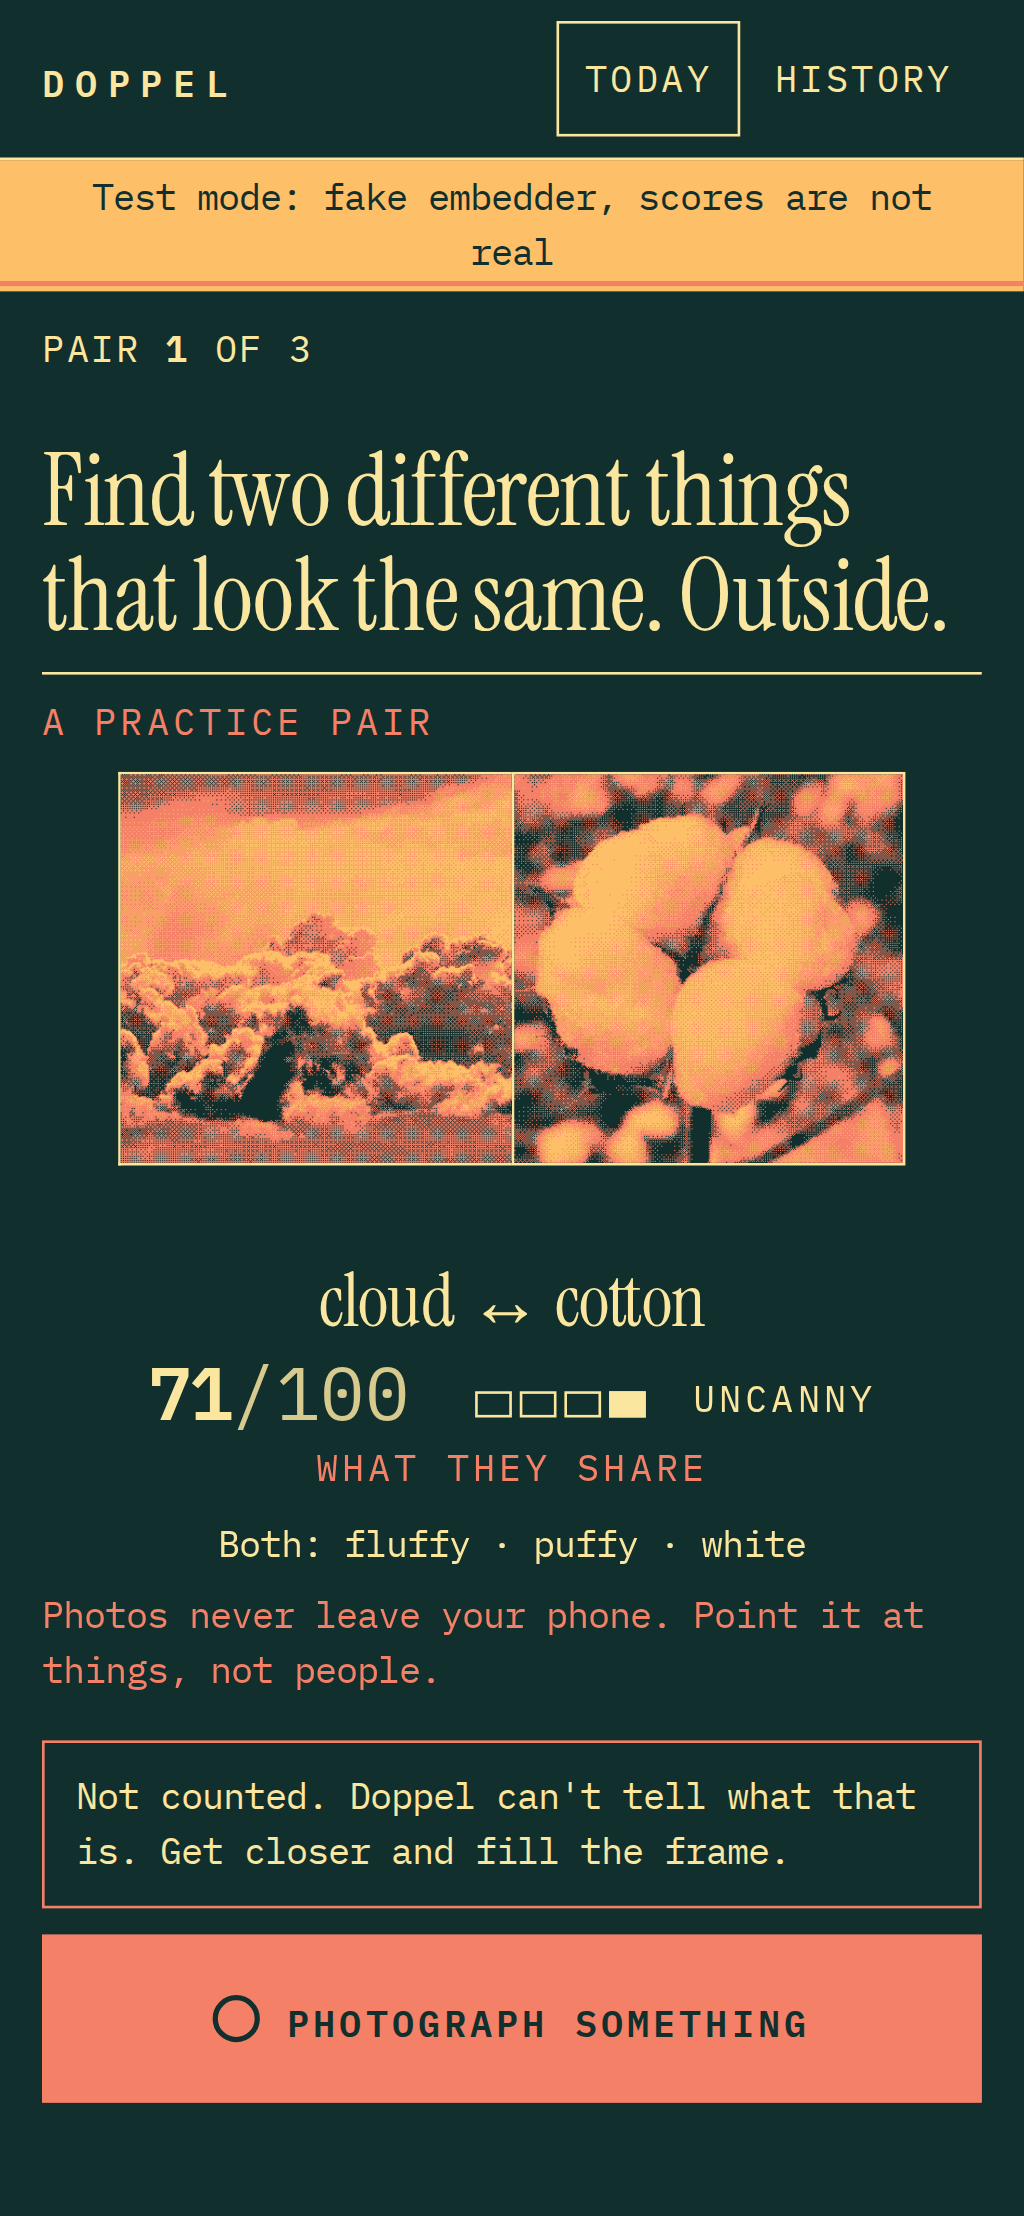
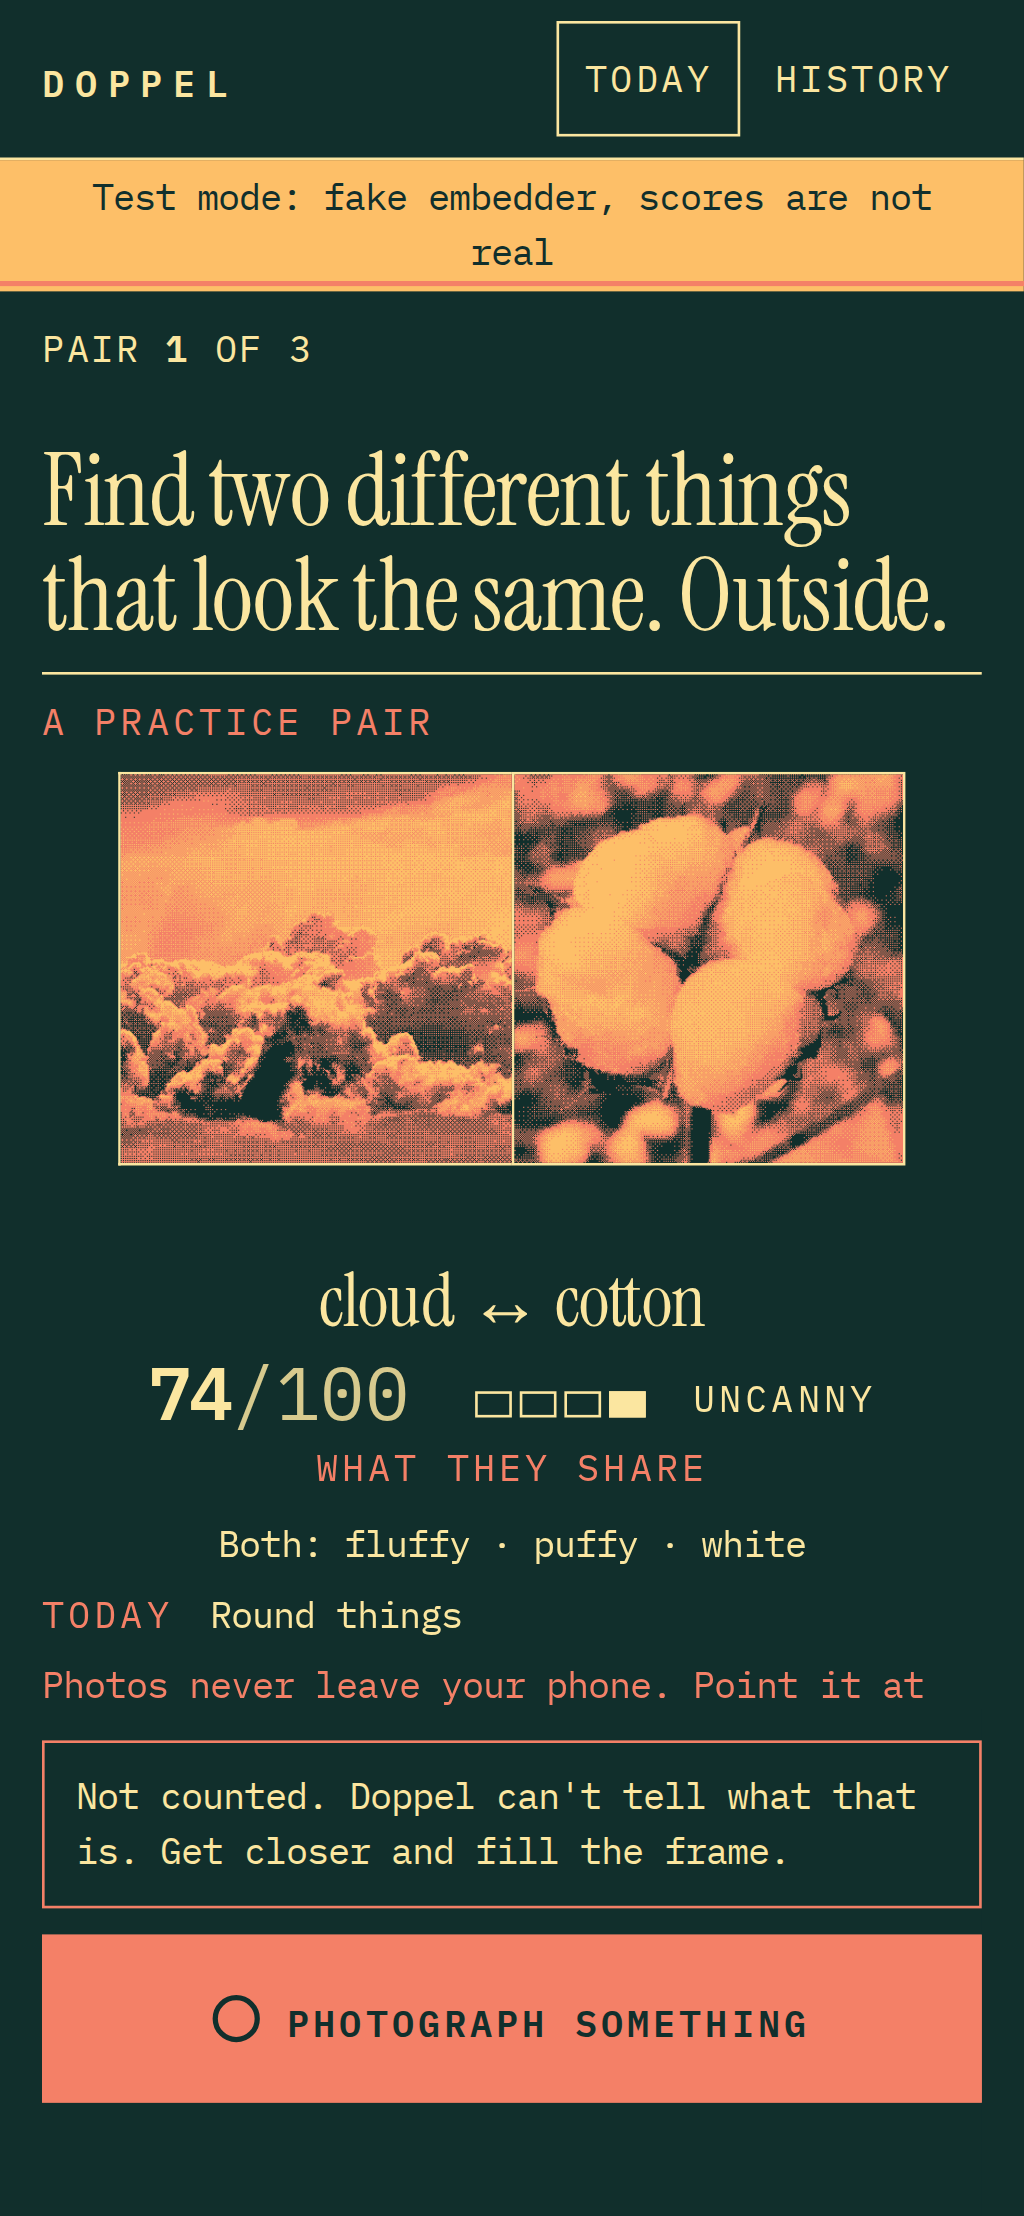
G5: daily theme, biases Need an idea?; LOG timestamps corrected to commit times

diff --git a/web/src/ideas.ts b/web/src/ideas.ts
@@ -9,10 +9,27 @@ export const IDEAS: string[] = data.ideas.map((i) => i.text);
 const STOP = new Set(["something", "and", "with", "a", "an", "the", "of", "that", "like", "in", "on", "or", "very"]);
 const words = (s: string) => (s.toLowerCase().match(/[a-z]+/g) ?? []).filter((w) => !STOP.has(w));
 
+/** Daily theme (G5): one per date, the same for everyone. No effect on scoring. */
+export const THEMES: { name: string; words: string[] }[] = [
+  { name: "Textures", words: ["rough", "smooth", "bumpy", "bumps", "fuzzy", "woolly", "coarse", "grainy", "sandy", "spongy", "porous", "woven", "mesh", "layered", "dusted", "textured"] },
+  { name: "Round things", words: ["round", "rounded", "ring", "rings", "oblong", "curved", "hollow", "holes", "cap"] },
+  { name: "Stripes and lines", words: ["stripes", "striped", "lines", "zigzagging", "straight", "ridged", "scored", "patterned", "strands", "twisted"] },
+  { name: "Soft things", words: ["soft", "fuzzy", "fuzz", "woolly", "puffy", "fluffy", "fur", "hairs", "light"] },
+  { name: "Rough things", words: ["rough", "cracked", "jagged", "brittle", "weathered", "coarse", "lumpy", "prickly", "sharp", "bristly"] },
+  { name: "Shiny things", words: ["shiny", "glassy", "slick", "silvery", "wet", "bright", "glossy", "clear", "golden"] },
+];
+
+export const themeFor = (day: string) => THEMES[hash(`theme|${day}`) % THEMES.length];
+export const fitsTheme = (idea: string, theme: { words: string[] }) => words(idea).some((w) => theme.words.includes(w));
+
 export function ideasFor(day: string, n = 3, pool: string[] = IDEAS): string[] {
-  // Rank every idea by a per-day hash, then take the first n that share no
-  // word with one already picked, so the three hints point different ways.
-  const ranked = pool.map((text) => ({ text, k: hash(`${day}|${text}`) })).sort((a, b) => a.k - b.k);
+  // Rank every idea by a per-day hash, ideas that fit today's theme first, then
+  // take the first n that share no word with one already picked, so the three
+  // hints point different ways.
+  const theme = themeFor(day);
+  const ranked = pool
+    .map((text) => ({ text, k: hash(`${day}|${text}`), fit: fitsTheme(text, theme) ? 0 : 1 }))
+    .sort((a, b) => a.fit - b.fit || a.k - b.k);
   const out: string[] = [];
   const used = new Set<string>();
   for (const { text } of ranked) {

diff --git a/web/src/ui/screens.ts b/web/src/ui/screens.ts
@@ -77,13 +77,16 @@ export function practiceView(p: Practice): string {
     </div>`;
 }
 
-export function firstView(pair: number, ideas: string[], firstRun: boolean, practice?: Practice): string {
+const themeLine = (theme?: string) => (theme ? `<p class="theme" data-testid="theme"><span class="label">Today</span> ${esc(theme)}</p>` : "");
+
+export function firstView(pair: number, ideas: string[], firstRun: boolean, practice?: Practice, theme?: string): string {
   if (firstRun && practice) {
     return `
     <section class="screen first" aria-label="First photo">
       ${hud(pair)}
       <h1 class="voice lede">Find two different things that look the same. Outside.</h1>
       ${practiceView(practice)}
+      ${themeLine(theme)}
       <p class="sub privacy">Photos never leave your phone. Point it at things, not people.</p>
       <details class="ideas">
         <summary>Need an idea?</summary>
@@ -101,6 +104,7 @@ export function firstView(pair: number, ideas: string[], firstRun: boolean, prac
       </div>
       <h1 class="voice">${pair === 1 ? "Find two different things that look the same." : "Again. Start with anything outside."}</h1>
       <p class="sub">${pair === 1 ? "Photograph anything outside. Then walk, and find its twin." : "Then walk, and find its twin."}</p>
+      ${themeLine(theme)}
       ${firstRun ? `<p class="sub privacy">Photos never leave your phone. Point it at things, not people.</p>` : ""}
       <details class="ideas">
         <summary>Need an idea?</summary>

diff --git a/web/src/main.ts b/web/src/main.ts
@@ -8,7 +8,7 @@ import { acceptFirst, acceptTwin, activeWalk, bestPair, canRetry, closeReveal, r
 import { clearAll, getDay, getMeta, getShot, listDays, newId, putDay, putShot, setMeta, type StoredShot } from "./db";
 import { getEmbedder, isFakeEmbedder, onModelProgress } from "./embed";
 import { fakePhotoVector } from "./embed/fake";
-import { ideasFor } from "./ideas";
+import { ideasFor, themeFor } from "./ideas";
 import { drawPhoto, drawPrint, type Tone } from "./print";
 import { registerPwa } from "./pwa";
 import { parseHash } from "./router";
@@ -180,7 +180,7 @@ async function showToday(seq: number, force = false) {
   if (p.kind === "first") {
     const firstRun = !(await getMeta<boolean>("played"));
     if (seq !== routeSeq) return;
-    render(app, firstView(p.pair, ideasFor(day.day), firstRun, firstRun ? practice : undefined));
+    render(app, firstView(p.pair, ideasFor(day.day), firstRun, firstRun ? practice : undefined, themeFor(day.day).name));
     wireShoot(seq, "first");
     if (firstRun) {
       void playPractice(seq);

diff --git a/web/tests/unit/ideas.test.ts b/web/tests/unit/ideas.test.ts
@@ -41,3 +41,20 @@ describe("ideasFor diversity", () => {
     }
   });
 });
+
+describe("daily theme (G5)", () => {
+  it("is stable per date and uses all six themes over a few weeks", async () => {
+    const { themeFor, THEMES } = await import("../../src/ideas");
+    expect(themeFor("2026-10-11")).toBe(themeFor("2026-10-11"));
+    const seen = new Set(Array.from({ length: 40 }, (_, d) => themeFor(`2026-11-${String((d % 28) + 1).padStart(2, "0")}-${d}`).name));
+    expect(seen.size).toBe(THEMES.length);
+  });
+  it("biases Need an idea? toward the theme: every theme has ideas, and at least one pick fits", async () => {
+    const { themeFor, fitsTheme, THEMES } = await import("../../src/ideas");
+    for (const t of THEMES) expect(IDEAS.filter((i) => fitsTheme(i, t)).length, t.name).toBeGreaterThanOrEqual(4);
+    for (let d = 1; d <= 28; d++) {
+      const day = `2026-11-${String(d).padStart(2, "0")}`;
+      expect(ideasFor(day).some((i) => fitsTheme(i, themeFor(day))), day).toBe(true);
+    }
+  });
+});

diff --git a/web/tests/e2e/day.spec.ts b/web/tests/e2e/day.spec.ts
@@ -181,8 +181,12 @@ test("walking 50 m with GPS unlocks the twin and counts the distance", async ({ 
   await expect(page.getByRole("region", { name: "Twin photo" })).toBeVisible();
 });
 
-test("Need an idea? shows 3 hints, the same all day, different the next day", async ({ page }) => {
+test("Need an idea? shows 3 hints, the same all day, different the next day; the daily theme shows", async ({ page }) => {
   await open(page);
+  await expect(page.getByTestId("theme")).toHaveText(/^Today (Textures|Round things|Stripes and lines|Soft things|Rough things|Shiny things)$/);
+  const theme = await page.getByTestId("theme").textContent();
+  await page.reload();
+  await expect(page.getByTestId("theme")).toHaveText(theme!);
   await page.getByText("Need an idea?").click();
   const today = await page.getByTestId("ideas").locator("li").allTextContents();
   expect(today).toHaveLength(3);

diff --git a/web/src/style.css b/web/src/style.css
@@ -120,6 +120,9 @@ body[data-phase="walking"] .topbar, body[data-phase="walking"] .test-banner { di
 
 .tries .label { margin-right: 6px; }
 
+.theme { margin: 6px 0 0; }
+.theme .label { margin-right: 6px; }
+
 /* ---------- ideas */
 .ideas { margin: 6px 0 0; }
 .ideas summary {
